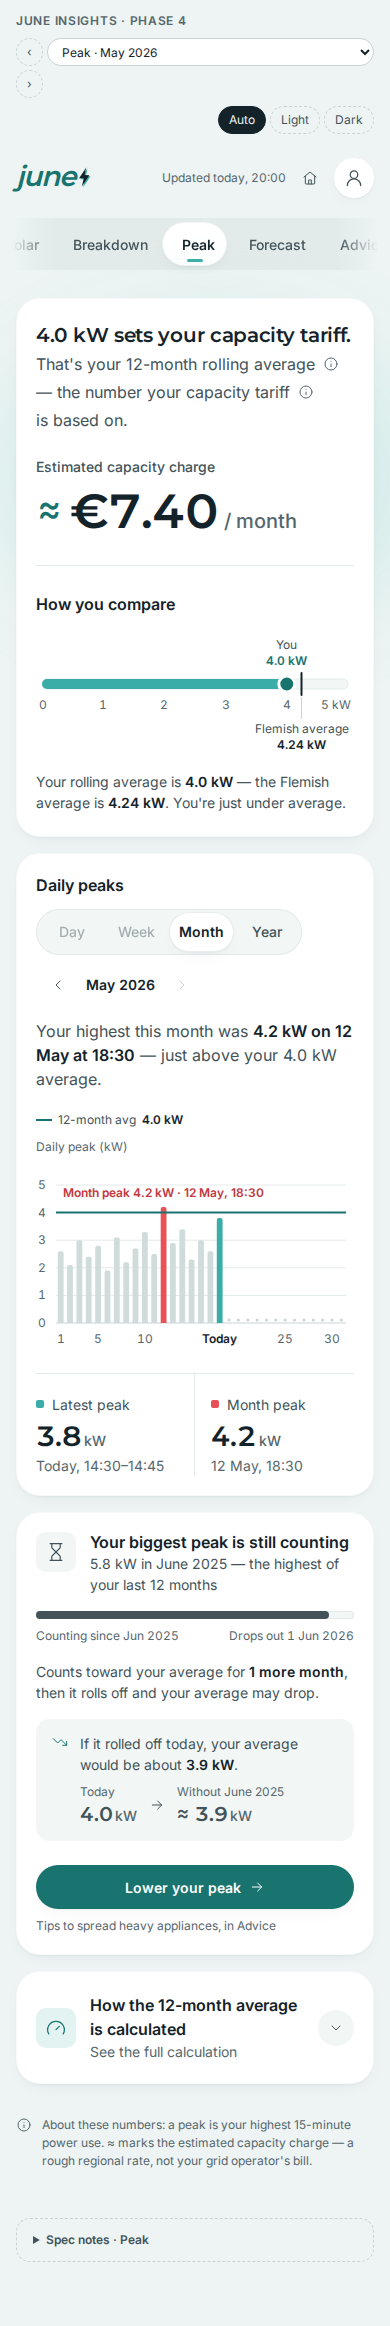
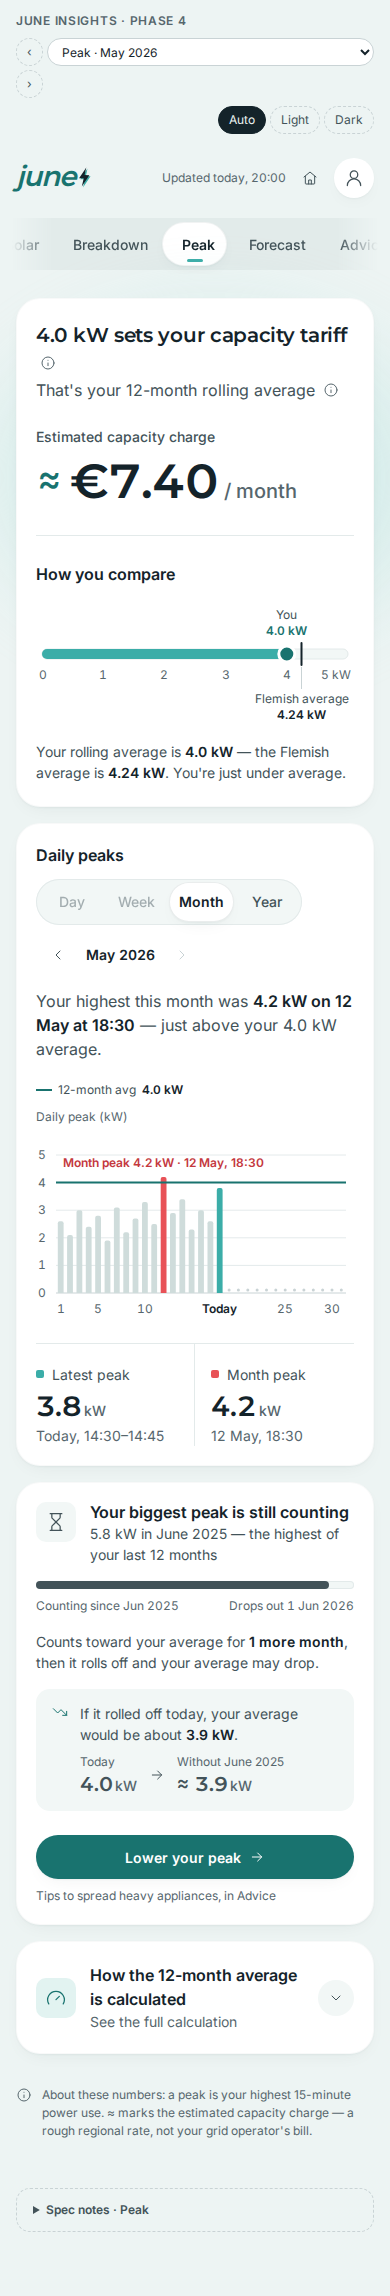
Final polish in progress (foundation)
Claude-Session: https://claude.ai/code/session_01DQCsKxdfeeA7stg6y986eR

diff --git a/app/index.html b/app/index.html
@@ -1664,12 +1664,10 @@
       <article class="surface hero">
         <div class="hero__split">
           <div>
-            <h1 class="hero__sentence" id="pk-title" style="margin-top:0">4.0&nbsp;kW sets your capacity tariff.</h1>
+            <h1 class="hero__sentence" id="pk-title" style="margin-top:0">4.0&nbsp;kW sets your capacity tariff
+              <button class="info" type="button" data-pop="pk-pop-tariff" aria-label="What is the capacity tariff?"><svg class="icon sm" aria-hidden="true"><use href="#i-info"/></svg></button></h1>
             <p class="hero__caption mt-2">That's your 12-month rolling average
-              <button class="info" type="button" data-pop="pk-pop-rolling" aria-label="What is a rolling average?"><svg class="icon sm" aria-hidden="true"><use href="#i-info"/></svg></button>
-              — the number your capacity tariff
-              <button class="info" type="button" data-pop="pk-pop-tariff" aria-label="What is the capacity tariff?"><svg class="icon sm" aria-hidden="true"><use href="#i-info"/></svg></button>
-              is based on.</p>
+              <button class="info" type="button" data-pop="pk-pop-rolling" aria-label="What is a rolling average?"><svg class="icon sm" aria-hidden="true"><use href="#i-info"/></svg></button></p>
             <p class="hero__label mt-6">Estimated capacity charge</p>
             <p class="hero__figure hero-num" style="margin-top:var(--s-2)"><button class="est" type="button" data-pop="pk-pop-est" aria-label="About this estimate">≈</button><span>€<span class="num" data-count="7.40" data-dec="2">7.40</span></span><span class="unit">/ month</span></p>
           </div>

diff --git a/app/panels/peak.html b/app/panels/peak.html
@@ -27,12 +27,10 @@
       <article class="surface hero">
         <div class="hero__split">
           <div>
-            <h1 class="hero__sentence" id="pk-title" style="margin-top:0">4.0&nbsp;kW sets your capacity tariff.</h1>
+            <h1 class="hero__sentence" id="pk-title" style="margin-top:0">4.0&nbsp;kW sets your capacity tariff
+              <button class="info" type="button" data-pop="pk-pop-tariff" aria-label="What is the capacity tariff?"><svg class="icon sm" aria-hidden="true"><use href="#i-info"/></svg></button></h1>
             <p class="hero__caption mt-2">That's your 12-month rolling average
-              <button class="info" type="button" data-pop="pk-pop-rolling" aria-label="What is a rolling average?"><svg class="icon sm" aria-hidden="true"><use href="#i-info"/></svg></button>
-              — the number your capacity tariff
-              <button class="info" type="button" data-pop="pk-pop-tariff" aria-label="What is the capacity tariff?"><svg class="icon sm" aria-hidden="true"><use href="#i-info"/></svg></button>
-              is based on.</p>
+              <button class="info" type="button" data-pop="pk-pop-rolling" aria-label="What is a rolling average?"><svg class="icon sm" aria-hidden="true"><use href="#i-info"/></svg></button></p>
             <p class="hero__label mt-6">Estimated capacity charge</p>
             <p class="hero__figure hero-num" style="margin-top:var(--s-2)"><button class="est" type="button" data-pop="pk-pop-est" aria-label="About this estimate">≈</button><span>€<span class="num" data-count="7.40" data-dec="2">7.40</span></span><span class="unit">/ month</span></p>
           </div>
